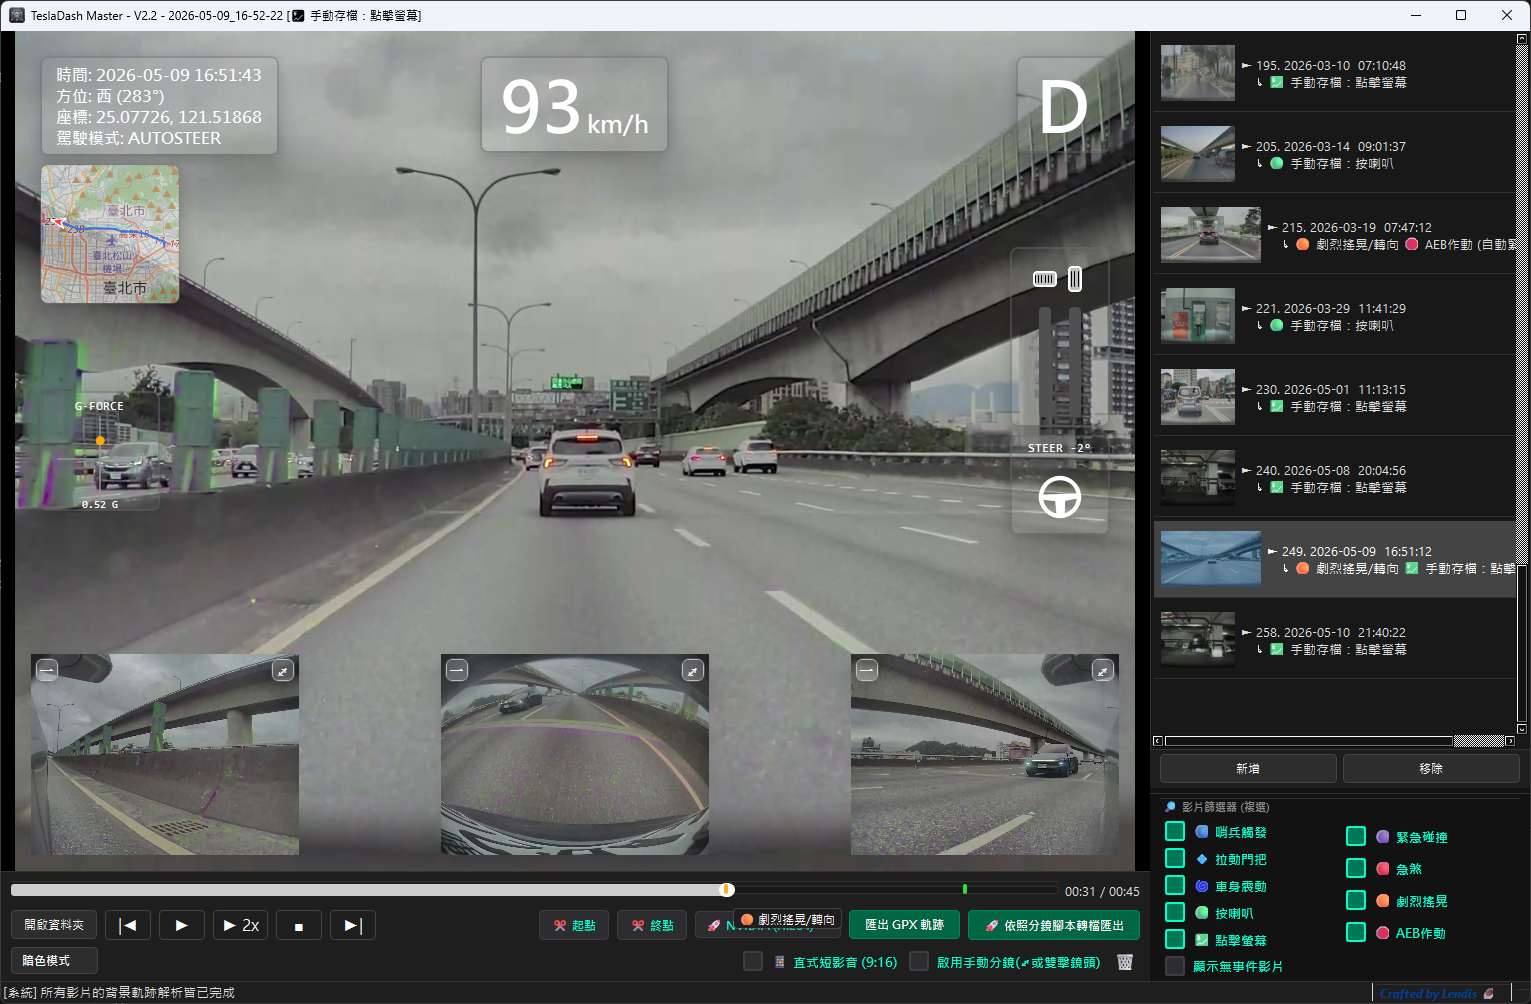
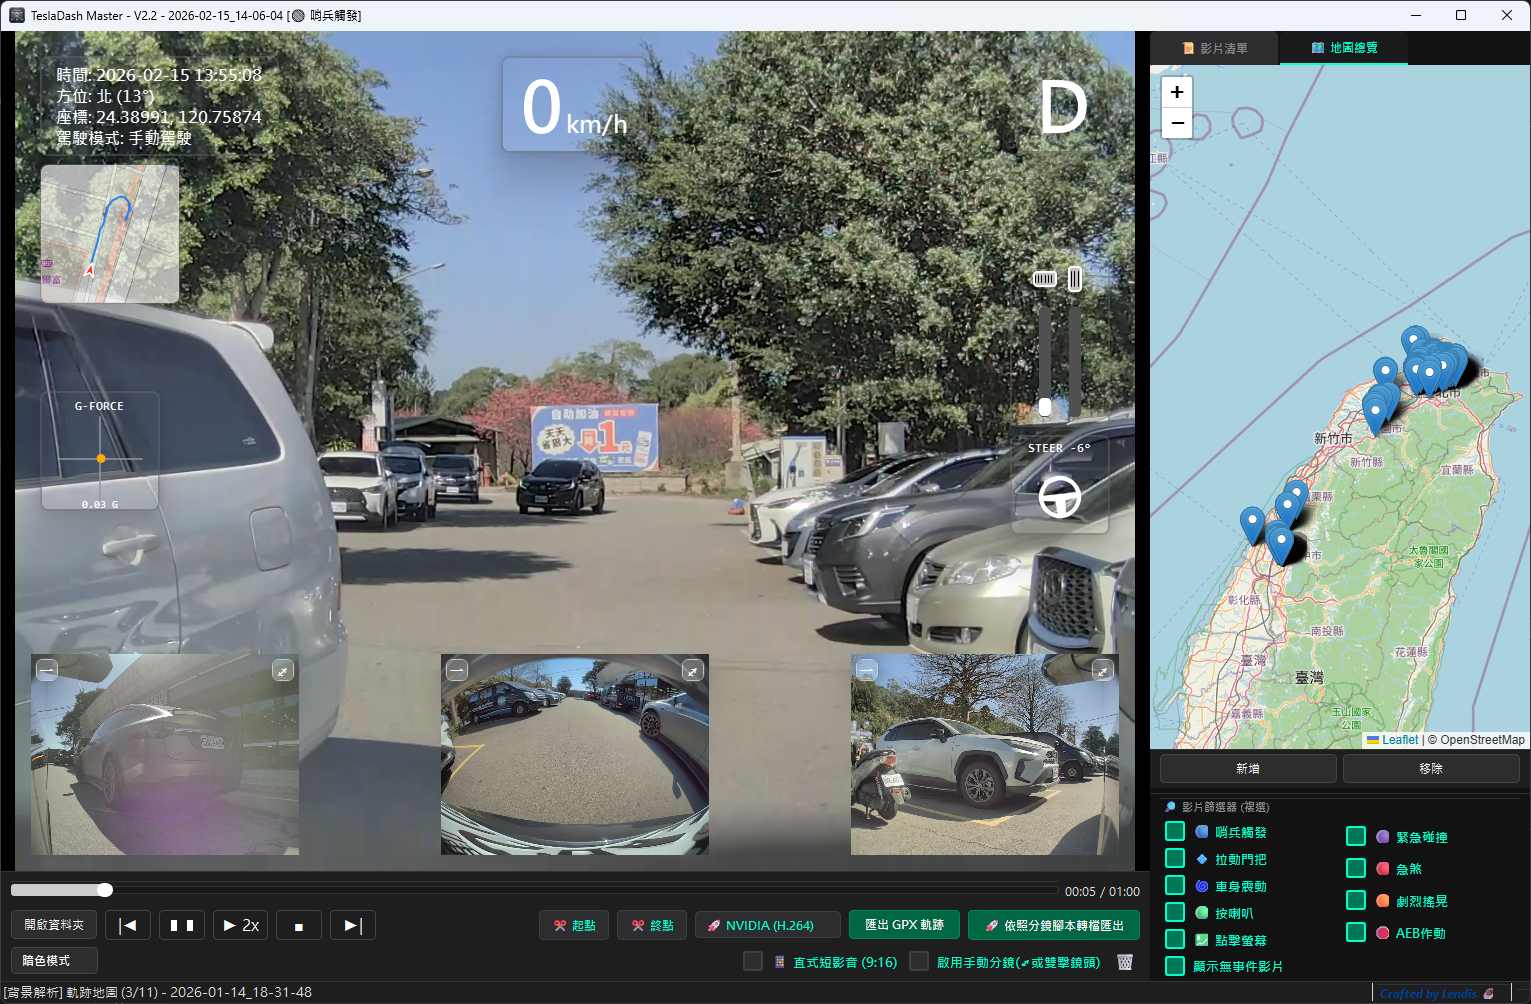
更新截圖

diff --git a/README.md b/README.md
@@ -105,7 +105,7 @@ Bypassing Apple Security: Since this app isn't signed with a paid Apple Develope
 
 🛡️ Security Guarantee: This installer has been scanned by VirusTotal using 60+ mainstream antivirus engines. (Note: Due to the Nuitka executable packing process, 1 or 2 engines might show a low-confidence Machine Learning false positive. All major engines like Microsoft Defender report it as 100% clean).
 
-📄 View the full scan report: [VirusTotal Report](https://www.virustotal.com/gui/file/046bcc55f9b5a53138321c23b3b5570ad18e1b9a9621463a7d51c95a3a71fb37?nocache=1)
+📄 View the full scan report: [VirusTotal Report](https://www.virustotal.com/gui/file/9ba42fa2b7206135798d8ea96f6687c9360056f371d8da9b2ba5a8047c5ff1e1?nocache=1)
 > ---
 本軟體為獨立開發者利用業餘時間打造的免費工具。由於未購買微軟企業數位簽章，首次安裝時 Windows 可能會彈出「Windows 保護您的電腦」藍色提示畫面。
 
@@ -115,4 +115,4 @@ Bypassing Apple Security: Since this app isn't signed with a paid Apple Develope
 
 🛡️ 安全保證：本安裝檔已經過 VirusTotal 全球 60+ 款主流防毒軟體檢測確認安全！(註：因採用 Nuitka 封裝技術，極少數防毒引擎可能會產生機器學習的啟發式誤判，微軟等多數大廠皆檢測為安全)。
 
-📄 查看完整掃毒報告：[VirusTotal 檢測報告](https://www.virustotal.com/gui/file/046bcc55f9b5a53138321c23b3b5570ad18e1b9a9621463a7d51c95a3a71fb37?nocache=1)
+📄 查看完整掃毒報告：[VirusTotal 檢測報告](https://www.virustotal.com/gui/file/9ba42fa2b7206135798d8ea96f6687c9360056f371d8da9b2ba5a8047c5ff1e1?nocache=1)